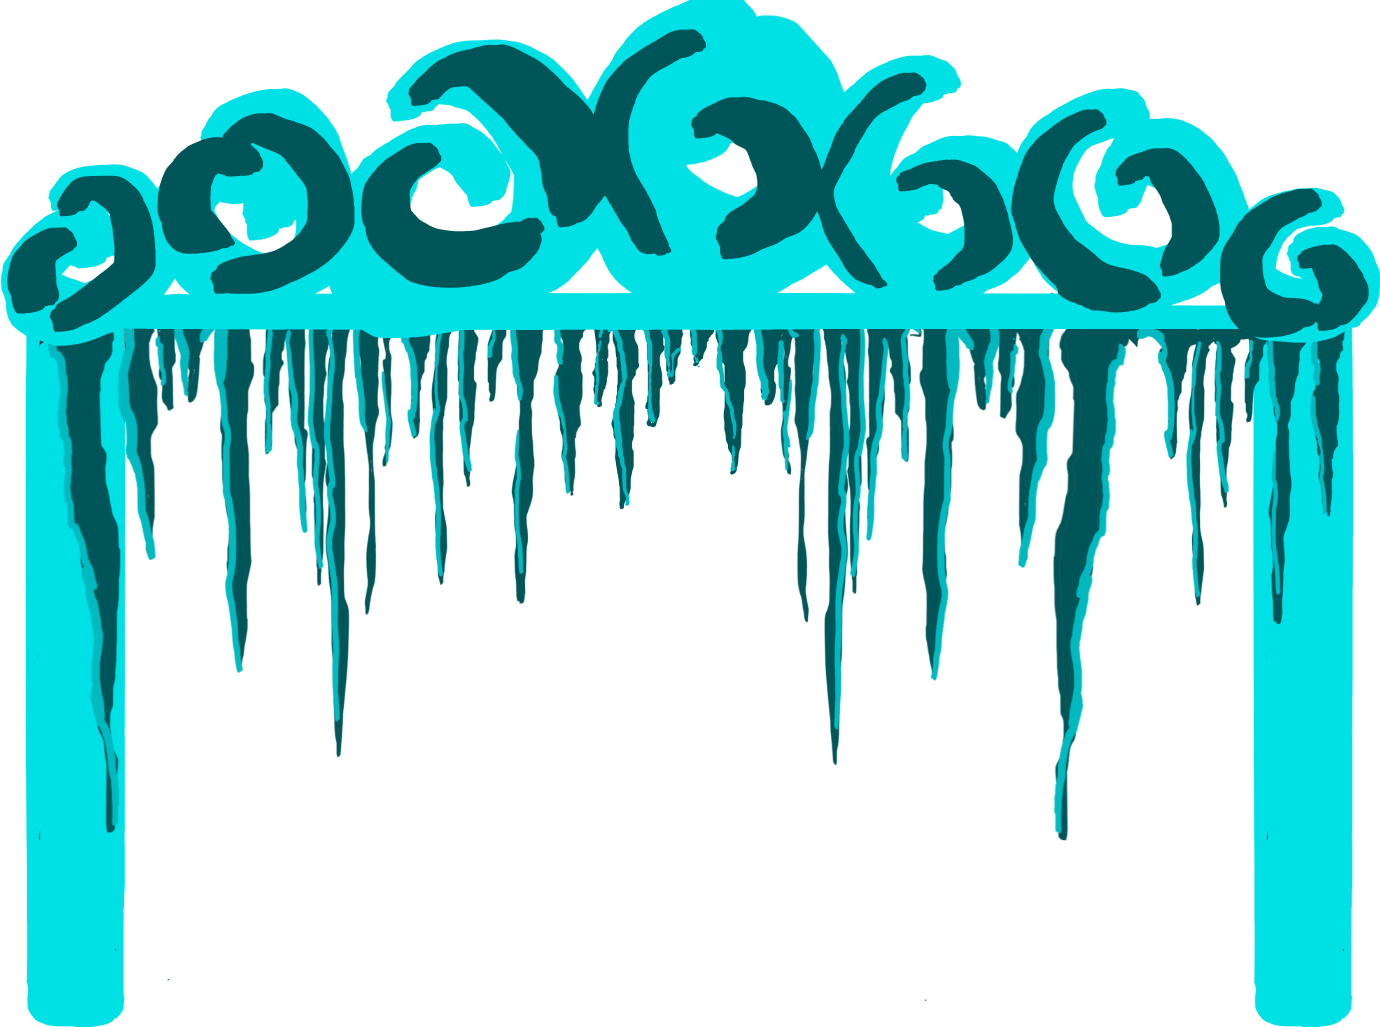
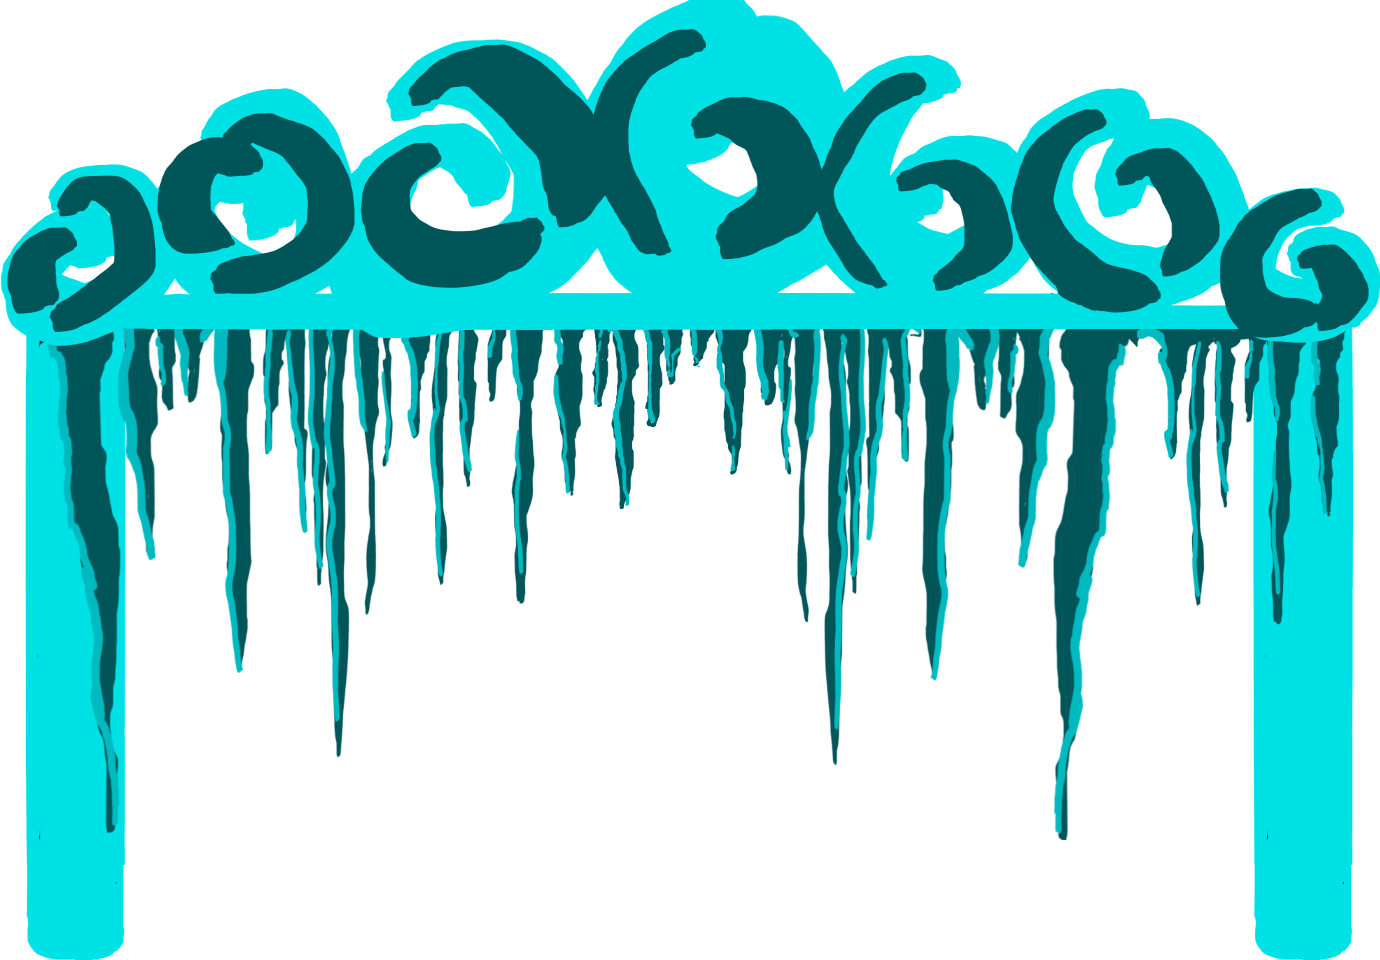
Video frame: pillars end at the bottom corners of the video window (same round ends)

Changed region(s): [[0.0, 0.0312, 1.0, 0.875], [0.4051, 0.0312, 0.4986, 0.125], [0.2181, 0.6875, 0.2493, 0.7812]]

diff --git a/src/styles.css b/src/styles.css
@@ -710,12 +710,12 @@ button{ font: inherit; background: none; border: none; cursor: pointer; color: i
 }
 .video-framed{
   position: relative;
-  aspect-ratio: 1380 / 1027; /* the shape of the frame picture */
+  aspect-ratio: 1380 / 960; /* the shape of the frame picture */
 }
 .video-framed .video-screen{
   position: absolute;
   left: 8.62%;
-  top: 31%;
+  top: 33.16%;
   width: 82.6%;
 }
 .video-framed > img{
